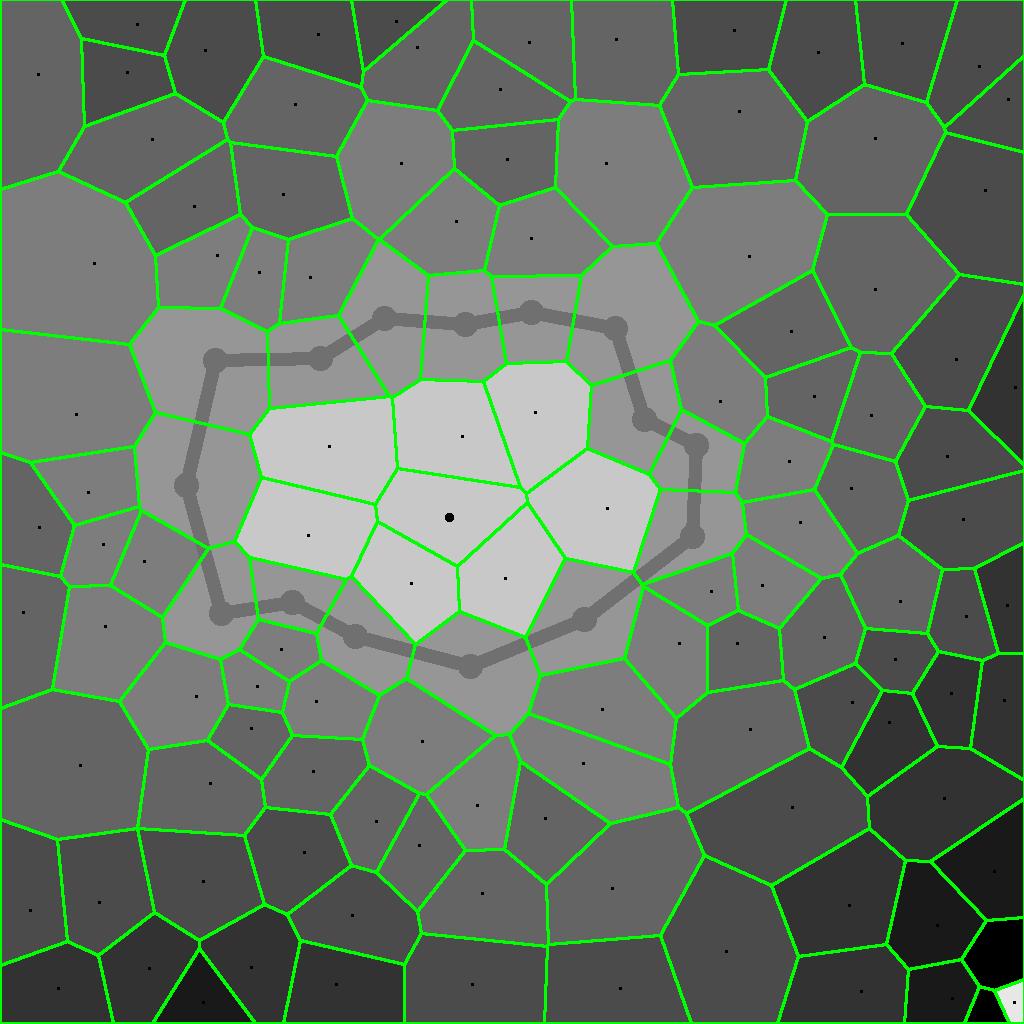
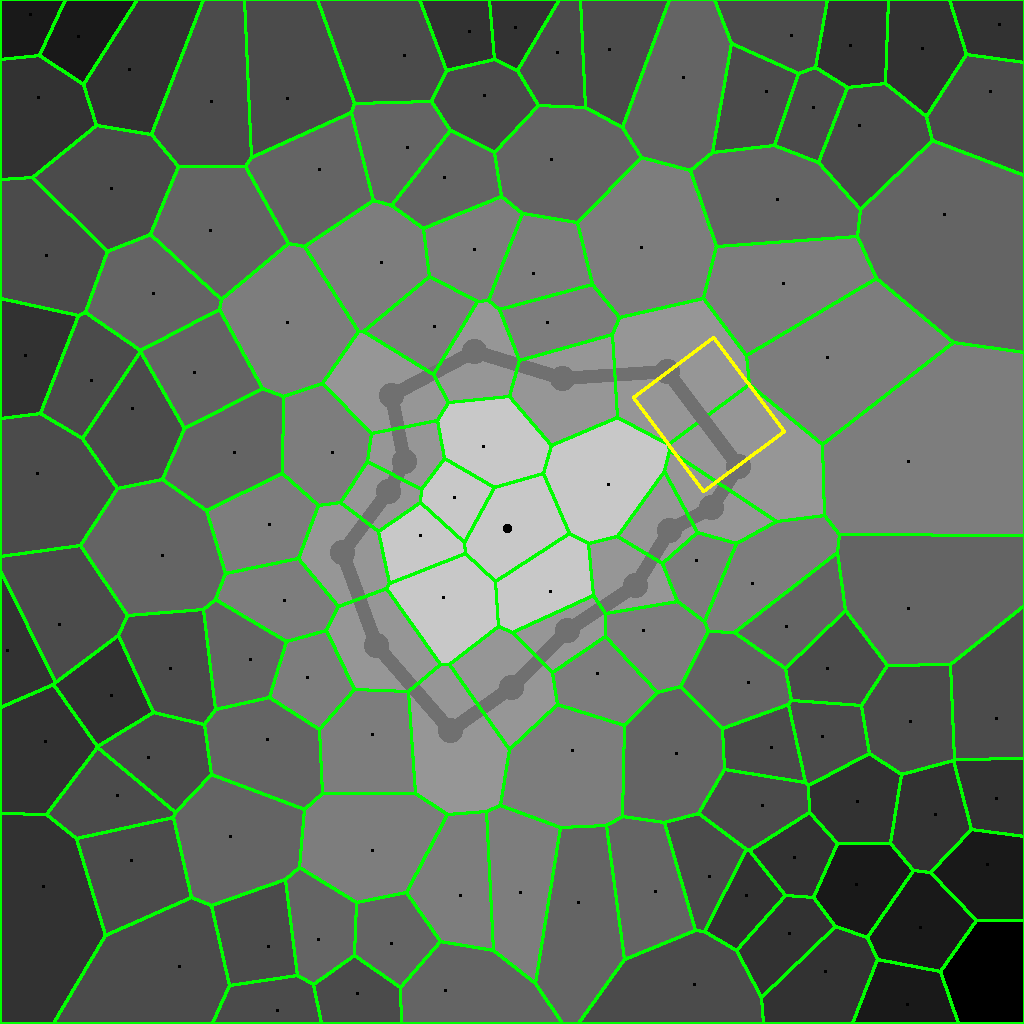
removed triangular wall

diff --git a/src/main.cpp b/src/main.cpp
@@ -21,6 +21,7 @@ unsigned char ORANGE[3] = {255, 150, 0};
 unsigned char GRAY[3] = {112, 112, 112};
 unsigned char BLACK[3] = {0, 0, 0};
 unsigned char GRN[3] = {0, 255, 0};
+unsigned char YELLOW[3] = {255, 255, 0};
 
 void draw_filled_circle(int x0, int y0, int radius, unsigned char *image, int width, int height, int nchannels, unsigned char *color)
 {
@@ -70,101 +71,6 @@ void draw_thick_line(int x0, int y0, int x1, int y1, int radius, unsigned char *
 	}
 }
 
-/*
-void print_site(const Sitemap *map) 
-{
-	struct byteimage image = blank_byteimage(3, 1024, 1024);
-
-	unsigned char color[3] = {255, 255, 255};
-	for (const auto &d : map->districts) {
-		glm::vec2 a = {round(d.center.x), round(d.center.y)};
-		float gradient = 1.f - (d.radius / 8.f);
-		color[0] = 200;
-		color[1] = 200;
-		color[2] = 200;
-		for (const auto &s : d.sections) {
-			glm::vec2 b = {round(s->j0->position.x), round(s->j0->position.y)};
-			glm::vec2 c = {round(s->j1->position.x), round(s->j1->position.y)};
-			draw_triangle(a, b, c, image.data, image.width, image.height, image.nchannels, color);
-		}
-	}
-	for (const auto &sect : map->sections) {
-		draw_thick_line(sect.j0->position.x, sect.j0->position.y, sect.j1->position.x, sect.j1->position.y, 1, image.data, image.width, image.height, image.nchannels, GRN);
-	}
-
-	draw_filled_circle(map->towncenter->center.x, map->towncenter->center.y, 16, image.data, image.width, image.height, image.nchannels, BLACK);
-	// draw town streets
-	for (const auto &sect : map->sections) {
-		if (sect.j0->radius < 8 || sect.j1->radius < 8) {
-			if (sect.j0->border == false && sect.j1->border == false) {
-				draw_thick_line(sect.j0->position.x, sect.j0->position.y, sect.j1->position.x, sect.j1->position.y, 3, image.data, image.width, image.height, image.nchannels, ORANGE);
-			}
-		}
-	}
-	for (const auto &d : map->districts) {
-		if (d.radius < 3) {
-			float max = 0.f;
-			const struct section *longest;
-			for (const auto &s : d.sections) {
-				if (s->j0-> radius < 7 || s->j1->radius < 7) {
-					glm::vec2 mid = segment_midpoint(s->j0->position, s->j1->position);
-					float dist = glm::distance(s->j0->position, s->j1->position);
-					if (dist > max) {
-						max = dist;
-						longest = s;
-					}
-				}
-			}
-			glm::vec2 mad = segment_midpoint(longest->j0->position, longest->j1->position);
-			glm::vec2 tjunction = glm::normalize(d.center - mad);
-			draw_thick_line(d.center.x, d.center.y, mad.x, mad.y, 3, image.data, image.width, image.height, image.nchannels, ORANGE);
-			const struct section *coolest;
-			float mindot = 1.f;
-			for (const auto &s : d.sections) {
-				if (s->j0-> radius < 8 || s->j1->radius < 8) {
-					glm::vec2 mid = segment_midpoint(s->j0->position, s->j1->position);
-					glm::vec2 cool = glm::normalize(d.center - mid);
-					float dot = glm::dot(tjunction, cool);
-					if (dot < mindot) {
-						mindot = dot;
-						coolest = s;
-					}
-				}
-			}
-			glm::vec2 mod = segment_midpoint(coolest->j0->position, coolest->j1->position);
-			draw_thick_line(d.center.x, d.center.y, mod.x, mod.y, 3, image.data, image.width, image.height, image.nchannels, ORANGE);
-		}
-	}
-
-	if (map->towngates.size() > 0) {
-		for (const auto &w : map->walls) {
-			draw_thick_line(w.P0.x, w.P0.y, w.P1.x, w.P1.y, 6, image.data, image.width, image.height, image.nchannels, GRAY);
-			draw_filled_circle(w.P0.x, w.P0.y, 12, image.data, image.width, image.height, image.nchannels, GRAY);
-
-		}
-	}
-	for (const auto &gate : map->towngates) {
-		//plot(ent->position.x, ent->position.y, image.data, image.width, image.height, image.nchannels, GRN);
-		glm::vec2 gatepoint = segment_midpoint(gate.wall.P0, gate.wall.P1);
-		draw_thick_line(gate.inward->position.x, gate.inward->position.y, gatepoint.x, gatepoint.y, 4, image.data, image.width, image.height, image.nchannels, ORANGE);
-		draw_thick_line(gate.outward->position.x, gate.outward->position.y, gatepoint.x, gatepoint.y, 4, image.data, image.width, image.height, image.nchannels, ORANGE);
-	}
-	for (const auto &highway : map->highways) {
-		draw_thick_line(highway.P0.x, highway.P0.y, highway.P1.x, highway.P1.y, 4, image.data, image.width, image.height, image.nchannels, ORANGE);
-	}
-	for (const auto &gate : map->towngates) {
-		draw_filled_circle(gate.gatepoint.x, gate.gatepoint.y, 4, image.data, image.width, image.height, image.nchannels, GRN);
-		draw_filled_circle(gate.outward->position.x, gate.outward->position.y, 4, image.data, image.width, image.height, image.nchannels, PURPLE);
-		draw_filled_circle(gate.inward->position.x, gate.inward->position.y, 4, image.data, image.width, image.height, image.nchannels, PURPLE);
-	}
-
-	stbi_flip_vertically_on_write(true);
-	stbi_write_png("diagram.png", image.width, image.height, image.nchannels, image.data, image.width*image.nchannels);
-
-	delete_byteimage(&image);
-}
-*/
-
 void print_site(const Sitemap *map) 
 {
 	struct byteimage image = blank_byteimage(3, 1024, 1024);
@@ -198,26 +104,27 @@ void print_site(const Sitemap *map)
 			draw_filled_circle(d.center.x, d.center.y, 12, image.data, image.width, image.height, image.nchannels, GRAY);
 		}
 	}
-	/*
-	for (std::list<struct district*>::iterator it = map->walls.begin(); it != map->walls.end(); ++it) {
-		auto nx = std::next(it);
-		if (nx == map->walls.end()) {
-			nx = map->walls.begin();
-		}
-
-		const struct district *d = *it;
-		const struct district *nxd = *nx;
-
-		draw_thick_line(d->center.x, d->center.y, nxd->center.x, nxd->center.y, 6, image.data, image.width, image.height, image.nchannels, GRAY);
-		draw_filled_circle(d->center.x, d->center.y, 12, image.data, image.width, image.height, image.nchannels, GRAY);
-
-	}
-	*/
 	for (const auto &sect : map->sections) {
 		draw_thick_line(sect.j0->position.x, sect.j0->position.y, sect.j1->position.x, sect.j1->position.y, 1, image.data, image.width, image.height, image.nchannels, GRN);
 	}
 
 	draw_filled_circle(map->core->center.x, map->core->center.y, 4, image.data, image.width, image.height, image.nchannels, BLACK);
+
+	for (const auto &sect : map->sections) {
+		if (sect.wall && sect.area > 9000.f) {
+			draw_thick_line(sect.d0->center.x, sect.d0->center.y, sect.d1->center.x, sect.d1->center.y, 6, image.data, image.width, image.height, image.nchannels, GRAY);
+			glm::vec2 outward = segment_midpoint(sect.d0->center, sect.d1->center);
+			glm::vec2 right = sect.d0->center - outward;
+			glm::vec2 a = sect.j0->position - right;;
+			glm::vec2 b = sect.j0->position + right;;
+			glm::vec2 c = sect.j1->position - right;;
+			glm::vec2 d = sect.j1->position + right;;
+			draw_thick_line(a.x, a.y, b.x, b.y, 1, image.data, image.width, image.height, image.nchannels, YELLOW);
+			draw_thick_line(c.x, c.y, d.x, d.y, 1, image.data, image.width, image.height, image.nchannels, YELLOW);
+			draw_thick_line(a.x, a.y, c.x, c.y, 1, image.data, image.width, image.height, image.nchannels, YELLOW);
+			draw_thick_line(b.x, b.y, d.x, d.y, 1, image.data, image.width, image.height, image.nchannels, YELLOW);
+		}
+	}
 
 	stbi_flip_vertically_on_write(true);
 	stbi_write_png("diagram.png", image.width, image.height, image.nchannels, image.data, image.width*image.nchannels);

diff --git a/src/sitemap.cpp b/src/sitemap.cpp
@@ -16,6 +16,7 @@ static const size_t MAX_CELLS = 128;
 static const size_t VILLAGE_DISTRICT_RADIUS = 2;
 static const size_t TOWN_DISTRICT_RADIUS = 3;
 static const size_t FIELD_DISTRICT_RADIUS = 5;
+static const size_t WALL_RADIUS = 2;
 
 Sitemap::Sitemap(long seed, struct rectangle area)
 {
@@ -108,6 +109,7 @@ void Sitemap::make_diagram(void)
 		sections[index].j1 = &junctions[edge.v1->index];
 		sections[index].border = false;
 		sections[index].wall = false;
+		sections[index].area = 0.f;
 		if (edge.c0 != nullptr) {
 			sections[index].d0 = &districts[edge.c0->index];
 		} else {
@@ -206,8 +208,6 @@ void Sitemap::find_junction_radius(void)
 
 void Sitemap::outline_walls(void)
 {
-	const size_t WALL_RADIUS = 2;
-
 	for (auto &sect : sections) {
 		if (sect.d0->radius == WALL_RADIUS && sect.d1->radius == WALL_RADIUS) {
 			sect.wall = true;
@@ -215,6 +215,53 @@ void Sitemap::outline_walls(void)
 			sect.d1->wall = true;
 		} else {
 			sect.wall = false;
+		}
+	}
+
+	for (auto &sect : sections) {
+		sect.area = 0.f;
+		if (sect.wall) {
+			glm::vec2 outward = segment_midpoint(sect.d0->center, sect.d1->center);
+			glm::vec2 right = sect.d0->center - outward;
+			glm::vec2 a = sect.j0->position - right;;
+			glm::vec2 b = sect.j0->position + right;;
+			glm::vec2 c = sect.j1->position - right;;
+			glm::vec2 d = sect.j1->position + right;;
+			sect.area += triangle_area(a, c, d);
+			sect.area += triangle_area(a, d, b);
+		}
+	}
+
+	for (auto &j : junctions) {
+		// look if all 3 of the districts have walls
+		bool walls = true;
+		for (auto &d : j.districts) {
+			if (d->wall == false) {
+				walls = false;
+			}
+		}
+		// if it does remove the wall that is the closest to the core
+		if (walls) {
+			int minradius = MAX_CELLS;
+			struct district *target = nullptr;
+			for (auto d : j.districts) {
+				int max = 0;
+				for (auto &neighbor : d->neighbors) {
+					if (neighbor->radius > max) {
+						max = neighbor->radius;
+					}
+				}
+				if (max < minradius) {
+					minradius = max;
+					target = d;
+				}
+			}
+			if (target != nullptr) {
+				target->wall = false;
+				for (auto targetsect : target->sections) {
+					targetsect->wall = false;
+				}
+			}
 		}
 	}
 }

diff --git a/src/sitemap.h b/src/sitemap.h
@@ -12,6 +12,7 @@ struct section {
 	struct district *d1 = nullptr;
 	bool border;
 	bool wall;
+	float area;
 };
 
 struct junction {
